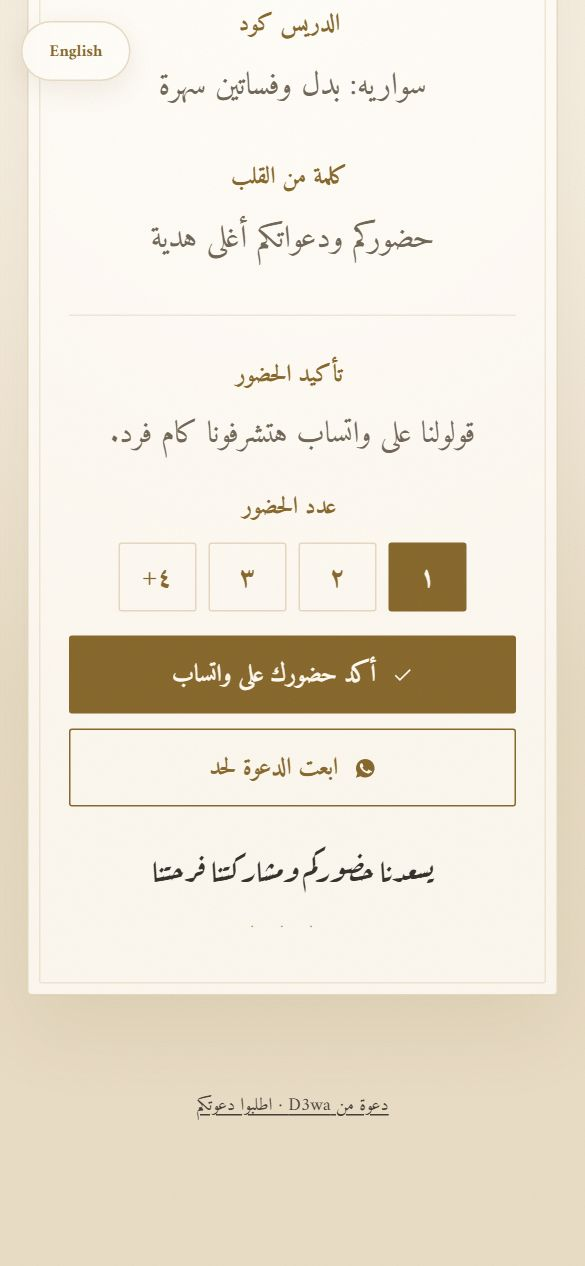
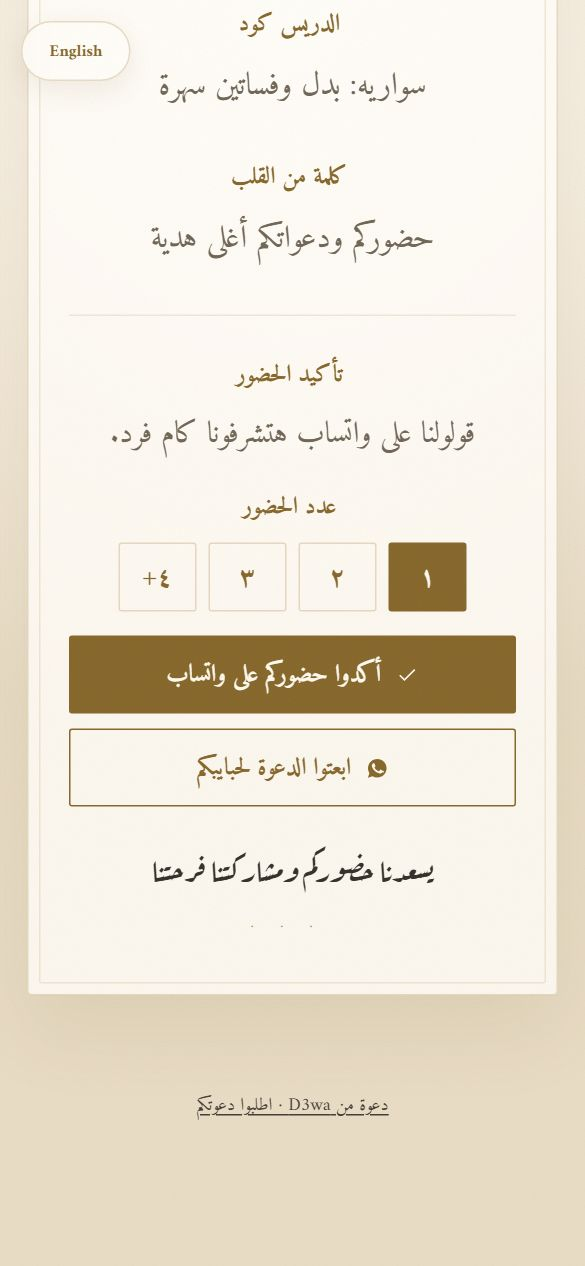
Council round 5 fixes: demos noindex, Gold opens once, summary polish
From the fifth council review (Claude Opus, 9.4/10):
- All 12 demos carry noindex, so invitations sent as demo links before
  the Worker exists stay out of search, as the privacy policy says.
  DEPLOY.md now says to finish stage B before the first paid order,
  since that is what creates the named links the store promises.
- Gold asked guests to open the invitation twice; after the envelope
  the hero button is a scroll cue ("التفاصيل"), and Gold's buttons use
  the plural like every other design.
- Royal Navy's page promises 24-hour delivery; every amount in the
  order summary uses one face; the link name is a chip instead of an
  underline that looks tappable; the order message names the occasion
  in both languages.

Changed region(s): [[0.2769, 0.4929, 0.6462, 0.5545], [0.3385, 0.5853, 0.6769, 0.6161], [0.6769, 0.5237, 0.7077, 0.5545]]

diff --git a/demos/gold.html b/demos/gold.html
@@ -2,6 +2,7 @@
 <html lang="en">
 <head>
 <meta charset="utf-8">
+<meta name="robots" content="noindex">
 <meta name="viewport" content="width=device-width, initial-scale=1, viewport-fit=cover">
 <title>Omar &amp; Salma, engagement invitation | عمر وسلمى</title>
 <meta name="description" content="You are invited to the engagement of Omar &amp; Salma. Saturday, 22 August 2026, 8:00 PM at Villa Rose, Maadi, Cairo.">
@@ -650,8 +651,8 @@ body.intro-lock{overflow:hidden}
     </div>
 
     <a class="btn solid" href="#card">
-      <span class="t-en">Open the invitation</span>
-      <span class="t-ar">افتح الدعوة</span>
+      <span class="t-en">The details</span>
+      <span class="t-ar">التفاصيل</span>
     </a>
   </div>
 </section>
@@ -760,7 +761,7 @@ body.intro-lock{overflow:hidden}
          href="https://calendar.google.com/calendar/render?action=TEMPLATE&amp;text=Omar%20%26%20Salma%27s%20engagement&amp;dates=20260822T200000/20260822T230000&amp;ctz=Africa/Cairo&amp;location=Villa%20Rose%2C%20Maadi%2C%20Cairo&amp;details=Two%20hearts%2C%20one%20beautiful%20beginning.">
         <svg viewBox="0 0 24 24" fill="none" stroke="currentColor" stroke-width="1.7" aria-hidden="true"><rect x="3" y="5" width="18" height="16" rx="2"/><path d="M16 3v4M8 3v4M3 10h18"/></svg>
         <span class="t-en">Add to calendar</span>
-        <span class="t-ar">أضف إلى التقويم</span>
+        <span class="t-ar">أضيفوها للتقويم</span>
       </a>
       </div>
     </div>
@@ -820,13 +821,13 @@ body.intro-lock{overflow:hidden}
          href="https://wa.me/201005509418?text=Hello!%20I%27d%20love%20to%20confirm%20my%20attendance%20at%20the%20engagement%20of%20Omar%20%26%20Salma.">
         <svg viewBox="0 0 24 24" fill="none" stroke="currentColor" stroke-width="1.7" aria-hidden="true"><path d="M20 6 9 17l-5-5"/></svg>
         <span class="t-en">RSVP on WhatsApp</span>
-        <span class="t-ar">أكد حضورك على واتساب</span>
+        <span class="t-ar">أكدوا حضوركم على واتساب</span>
       </a>
       <a class="btn" id="waBtn" target="_blank" rel="noopener noreferrer"
          href="https://wa.me/?text=You%27re%20invited%20to%20the%20engagement%20of%20Omar%20%26%20Salma.%20https%3A%2F%2Fkhalidsharafel-din.github.io%2Fd3wa%2Fdemos%2Fgold.html">
         <svg viewBox="0 0 24 24" fill="currentColor" aria-hidden="true"><path d="M12.04 2C6.58 2 2.13 6.45 2.13 11.91c0 1.94.56 3.75 1.5 5.29L2 22l4.96-1.6a9.9 9.9 0 0 0 5.08 1.4h.01c5.46 0 9.91-4.45 9.91-9.91C21.96 6.45 17.5 2 12.04 2zm5.78 14.07c-.25.7-1.45 1.34-2 1.43-.5.08-1.13.11-1.83-.12-.42-.13-.96-.31-1.65-.6-2.9-1.25-4.79-4.17-4.94-4.37-.15-.2-1.18-1.57-1.18-3 0-1.42.74-2.12 1-2.41.25-.28.55-.35.74-.35h.53c.17 0 .4-.03.62.48.25.58.84 2.02.91 2.17.07.15.12.32.02.51-.09.2-.16.32-.31.49-.15.17-.32.38-.45.51-.15.15-.3.31-.13.6.18.3.8 1.32 1.71 2.13 1.18 1.05 2.17 1.38 2.5 1.53.25.12.55.1.74-.11.25-.28.55-.74.86-1.2.22-.32.49-.36.82-.24.34.12 2.15 1.01 2.51 1.2.37.18.61.27.7.43.1.16.1.9-.15 1.6z"/></svg>
         <span class="t-en">Share invitation</span>
-        <span class="t-ar">ابعت الدعوة لحد</span>
+        <span class="t-ar">ابعتوا الدعوة لحبايبكم</span>
       </a>
       </div>
     </div>

diff --git a/templates/navy.html b/templates/navy.html
@@ -99,7 +99,7 @@
     <p style="margin-top:14px;font-size:15px"><a class="link" href="https://wa.me/201005509418?text=%D8%A3%D9%87%D9%84%D8%A7%D9%8B%D8%8C%20%D8%B9%D9%86%D8%AF%D9%8A%20%D8%B3%D8%A4%D8%A7%D9%84%20%D8%B9%D9%86%20%D8%AA%D8%B5%D9%85%D9%8A%D9%85%20%D8%B1%D9%88%D9%8A%D8%A7%D9%84%20%D9%86%D8%A7%D9%8A%D9%81%D9%8A%20(D3-004)." target="_blank" rel="noopener"><span class="t-ar">عندكم سؤال؟ اسألونا على واتساب</span><span class="t-en">A question? Ask us on WhatsApp</span></a></p>
     <ul class="promise">
       <li><svg viewBox="0 0 24 24" fill="none" stroke="currentColor" stroke-width="1.6" stroke-linecap="round" stroke-linejoin="round" aria-hidden="true"><path d="M2.5 12s3.5-6.5 9.5-6.5S21.5 12 21.5 12s-3.5 6.5-9.5 6.5S2.5 12 2.5 12z"/><circle cx="12" cy="12" r="2.8"/></svg><span><span class="t-ar">بتشوفوا الدعوة بأساميكم قبل ما تدفعوا أي حاجة.</span><span class="t-en">You see the invitation with your names before you pay anything.</span></span></li>
-      <li><svg viewBox="0 0 24 24" fill="none" stroke="currentColor" stroke-width="1.6" stroke-linecap="round" stroke-linejoin="round" aria-hidden="true"><circle cx="12" cy="12" r="8.5"/><path d="M12 7.5V12l3 2"/></svg><span><span class="t-ar">بتوصلكم خلال ٤٨ ساعة من تأكيد التفاصيل، و٢٤ ساعة في رويال.</span><span class="t-en">Ready within 48 hours of confirming your details, 24 with Royale.</span></span></li>
+      <li><svg viewBox="0 0 24 24" fill="none" stroke="currentColor" stroke-width="1.6" stroke-linecap="round" stroke-linejoin="round" aria-hidden="true"><circle cx="12" cy="12" r="8.5"/><path d="M12 7.5V12l3 2"/></svg><span><span class="t-ar">بتوصلكم خلال ٢٤ ساعة من تأكيد التفاصيل.</span><span class="t-en">Ready within 24 hours of confirming your details.</span></span></li>
       <li><svg viewBox="0 0 24 24" fill="none" stroke="currentColor" stroke-width="1.6" stroke-linecap="round" stroke-linejoin="round" aria-hidden="true"><rect x="4" y="5.5" width="16" height="14" rx="1.5"/><path d="M4 10h16M8.5 3.5v4M15.5 3.5v4"/></svg><span><span class="t-ar">اللينك شغال سنة كاملة، وتعديل المعاد أو المكان مجاني لحد أسبوع قبل المناسبة.</span><span class="t-en">The link stays live for a year. Date or venue changes are free until a week before.</span></span></li>
     </ul>
     <dl class="spec">

diff --git a/assets/store.css b/assets/store.css
@@ -496,7 +496,7 @@ html:not(.en) .ltr-in{text-align:right}
 .sum-top b{display:block;font:600 21px/1.25 var(--disp)}
 .sum-top small{color:var(--kohl-2);font-size:13.5px}
 .sum dl{margin:12px 0 0;display:grid;grid-template-columns:1fr auto;gap:8px 0;font-size:15px}
-.sum dd{padding-inline-start:12px}
+.sum dd{padding-inline-start:12px;font:600 17px/1.5 var(--disp)}
 .sum dt{color:var(--kohl-2)}
 .sum dd{margin:0;text-align:end}
 .sum .tot{border-top:1px solid var(--line);padding-top:12px;margin-top:4px;font-weight:600;color:var(--kohl)}
@@ -504,7 +504,7 @@ html:not(.en) .ltr-in{text-align:right}
 .sum .due{color:var(--wa);font-weight:500}
 .sum .slug{margin:14px 0 0;font-size:13.5px;line-height:1.7;color:var(--kohl-2)}
 .sum .slug bdi{word-break:break-all}
-.sum .slug u{color:var(--kohl);text-decoration-color:var(--gold-d)}
+.sum .slug u{color:var(--kohl);text-decoration:none;background:var(--almond);padding:1px 7px;border-radius:4px}
 .pv{background:var(--almond);border-radius:var(--r);padding:22px 0 16px;position:relative}
 .pv .phone{width:min(260px,70vw)}
 .pv iframe{position:absolute;top:0;left:0;width:390px;border:0;transform-origin:0 0;background:var(--sugar)}

diff --git a/order.html b/order.html
@@ -505,7 +505,7 @@ document.addEventListener("DOMContentLoaded", function () {
       "طلب دعوة جديد · D3wa order #" + ref,
       "التصميم Design: " + t.ar + " / " + t.en + " (" + t.code + ")",
       "الباقة Package: " + p.ar + " / " + p.en + " · " + total() + " EGP" + (state.rush ? " (rush)" : ""),
-      "المناسبة Occasion: " + (o ? o.getAttribute("data-ar") : ""),
+      "المناسبة Occasion: " + (o ? o.getAttribute("data-ar") + " / " + o.getAttribute("data-en") : ""),
       "الأسامي Names: " + el("n_ar").value.trim() + (el("n_en").value.trim() ? " / " + el("n_en").value.trim() : ""),
       "التاريخ Date: " + niceDate(true) + "، " + niceTime(true) + " / " + niceDate(false) + ", " + niceTime(false) + " (" + el("d").value + " " + el("t").value + ")"
     ];

diff --git a/demos/grad.html b/demos/grad.html
@@ -2,6 +2,7 @@
 <html lang="ar" dir="rtl">
 <head>
 <meta charset="utf-8">
+<meta name="robots" content="noindex">
 <meta name="viewport" content="width=device-width, initial-scale=1, viewport-fit=cover">
 <title>تخرج سارة | Sara's Graduation</title>
 <meta name="description" content="تتشرف العائلة بدعوتكم لحفل تخرج سارة، كلية الهندسة، جامعة القاهرة. الجمعة ٢ أكتوبر ٢٠٢٦، ٦:٠٠ مساءً، منزل العائلة بالدقي. You're invited to Sara's graduation party, Friday 2 October 2026, 6:00 PM, Dokki.">

diff --git a/demos/sahara.html b/demos/sahara.html
@@ -2,6 +2,7 @@
 <html lang="ar" dir="rtl">
 <head>
 <meta charset="utf-8">
+<meta name="robots" content="noindex">
 <meta name="viewport" content="width=device-width, initial-scale=1, viewport-fit=cover">
 <title>عمر وسلمى، فرح على البحر | Omar &amp; Salma</title>
 <meta name="description" content="دعوة فرح عمر وسلمى على البحر، السبت ٢٢ أغسطس ٢٠٢٦، ٨:٠٠ مساءً، سي شيل باي، الساحل الشمالي. You are invited to the wedding of Omar &amp; Salma, Saturday 22 August 2026, 8:00 PM, Seashell Bay, North Coast.">

diff --git a/demos/deco.html b/demos/deco.html
@@ -2,6 +2,7 @@
 <html lang="ar" dir="rtl">
 <head>
 <meta charset="utf-8">
+<meta name="robots" content="noindex">
 <meta name="viewport" content="width=device-width, initial-scale=1, viewport-fit=cover">
 <title>عمر وسلمى، دعوة زفاف | Omar &amp; Salma</title>
 <meta name="description" content="دعوة لحضور حفل زفاف عمر وسلمى، السبت ٢٢ أغسطس ٢٠٢٦، ٨:٠٠ مساءً، فيلا روز، المعادي، القاهرة. The wedding of Omar &amp; Salma, Saturday, 22 August 2026, 8:00 PM, Villa Rose, Maadi, Cairo.">

diff --git a/demos/lotus.html b/demos/lotus.html
@@ -2,6 +2,7 @@
 <html lang="ar" dir="rtl">
 <head>
 <meta charset="utf-8">
+<meta name="robots" content="noindex">
 <meta name="viewport" content="width=device-width, initial-scale=1, viewport-fit=cover">
 <title>سبوع ياسين | Yassin's Sebou3</title>
 <meta name="description" content="عمر وسلمى يتشرفوا بدعوتكم لحضور سبوع ياسين، الجمعة ٤ سبتمبر ٢٠٢٦، ٦:٠٠ مساءً، منزل العائلة، المعادي. Omar and Salma invite you to Yassin's sebou3, Friday 4 September 2026, 6:00 PM, Maadi, Cairo.">

diff --git a/demos/emerald.html b/demos/emerald.html
@@ -2,6 +2,7 @@
 <html lang="ar" dir="rtl">
 <head>
 <meta charset="utf-8">
+<meta name="robots" content="noindex">
 <meta name="viewport" content="width=device-width, initial-scale=1, viewport-fit=cover">
 <title>عمر وسلمى، عقد قران | Omar &amp; Salma, Katb Kitab</title>
 <meta name="description" content="دعوة عقد قران عمر وسلمى، السبت ٢٢ أغسطس ٢٠٢٦، الساعة ٨:٠٠ مساءً، فيلا روز، المعادي، القاهرة. You are invited to the katb kitab of Omar &amp; Salma.">

diff --git a/demos/modern.html b/demos/modern.html
@@ -2,6 +2,7 @@
 <html lang="ar" dir="rtl">
 <head>
 <meta charset="utf-8">
+<meta name="robots" content="noindex">
 <meta name="viewport" content="width=device-width, initial-scale=1, viewport-fit=cover">
 <title>عمر وسلمى، دعوة خطوبة | Omar &amp; Salma</title>
 <meta name="description" content="دعوة خطوبة عمر وسلمى، السبت ٢٢ أغسطس ٢٠٢٦، ٨:٠٠ مساءً، فيلا روز، المعادي. The engagement of Omar &amp; Salma, Saturday 22 August 2026, 8:00 PM, Villa Rose, Maadi, Cairo.">

diff --git a/demos/henna.html b/demos/henna.html
@@ -2,6 +2,7 @@
 <html lang="ar" dir="rtl">
 <head>
 <meta charset="utf-8">
+<meta name="robots" content="noindex">
 <meta name="viewport" content="width=device-width, initial-scale=1, viewport-fit=cover">
 <title>ليلة حنة ملك | Malak's Henna Night</title>
 <meta name="description" content="بناتنا وحبايبنا، ليلة حنة ملك. الخميس ٢٠ أغسطس ٢٠٢٦، ٨:٠٠ مساءً، بيت العيلة بالمعادي. Malak's Henna Night, Thursday 20 August 2026, 8:00 PM, the family home, Maadi.">

diff --git a/demos/garden.html b/demos/garden.html
@@ -2,6 +2,7 @@
 <html lang="ar" dir="rtl">
 <head>
 <meta charset="utf-8">
+<meta name="robots" content="noindex">
 <meta name="viewport" content="width=device-width, initial-scale=1, viewport-fit=cover">
 <title>عمر وسلمى، حفل زفاف | Omar &amp; Salma</title>
 <meta name="description" content="دعوة لحضور حفل زفاف عمر وسلمى، السبت ٢٢ أغسطس ٢٠٢٦، ٦:٠٠ مساءً، قاعة الحديقة، الجيزة. You are invited to the wedding of Omar &amp; Salma.">
